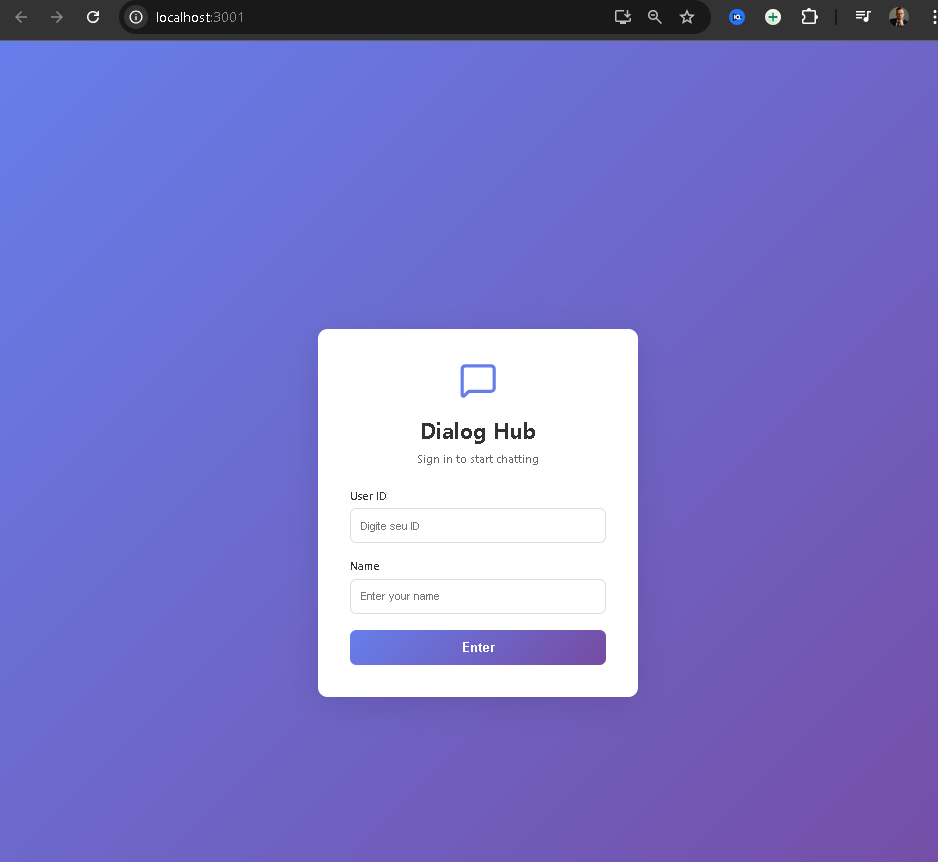
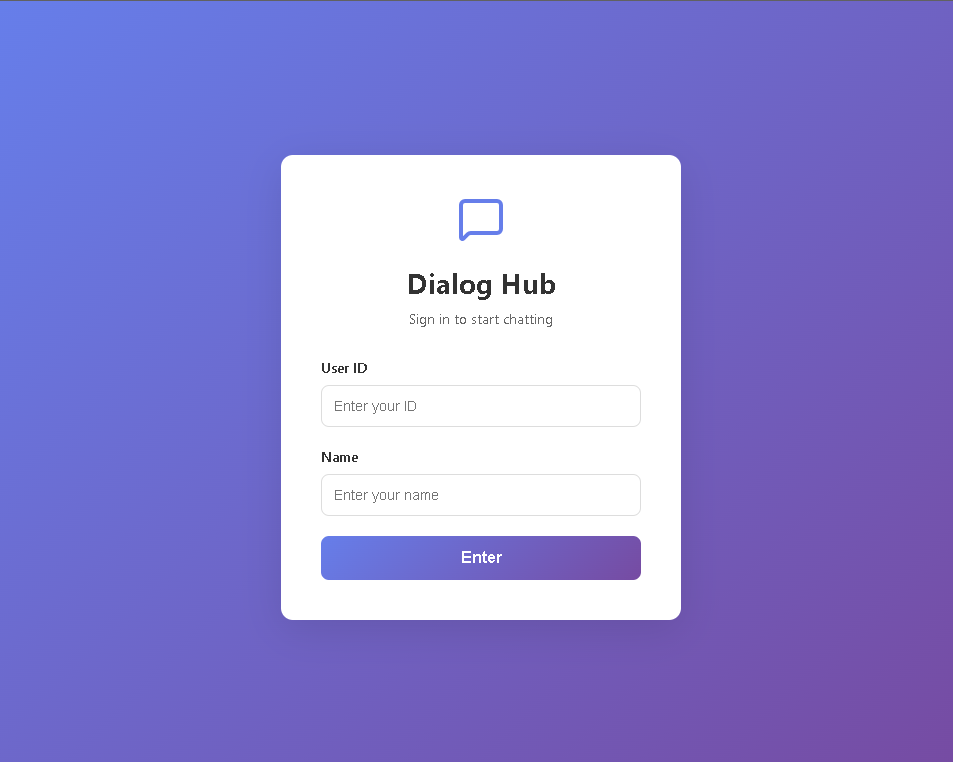
Update Readme.md

Changed region(s): [[0.2783, 0.1811, 0.742, 0.815], [0.0, 0.0, 1.0, 0.0604]]

diff --git a/frontend/src/components/Auth/Login.jsx b/frontend/src/components/Auth/Login.jsx
@@ -30,7 +30,7 @@ const Login = () => {
             <input
               id="userId"
               type="text"
-              placeholder="Digite seu ID"
+              placeholder="Enter your ID"
               value={userId}
               onChange={(e) => setUserId(e.target.value)}
               required
